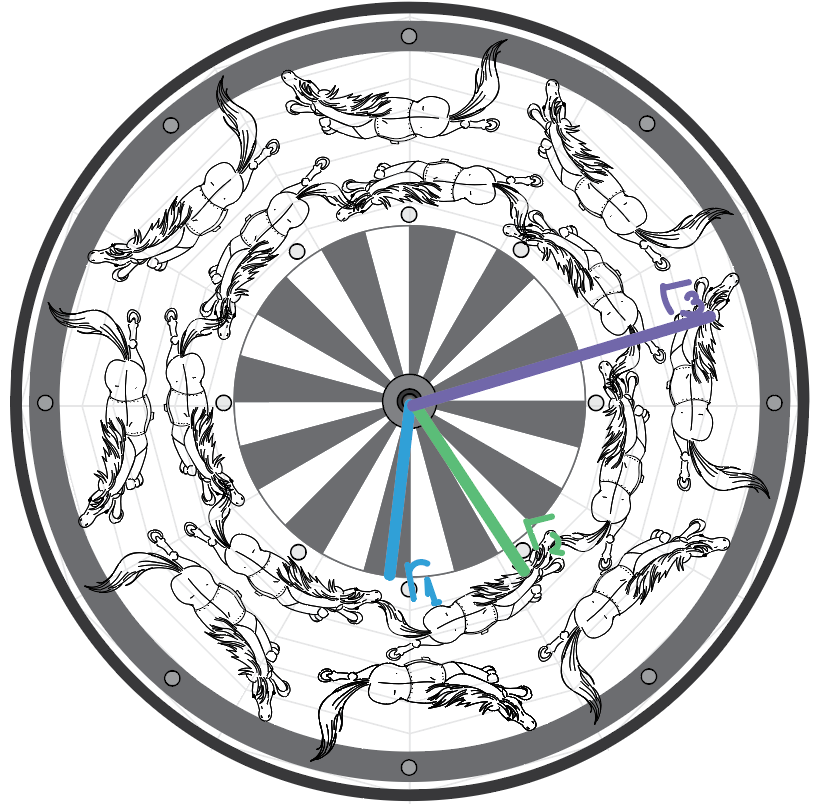
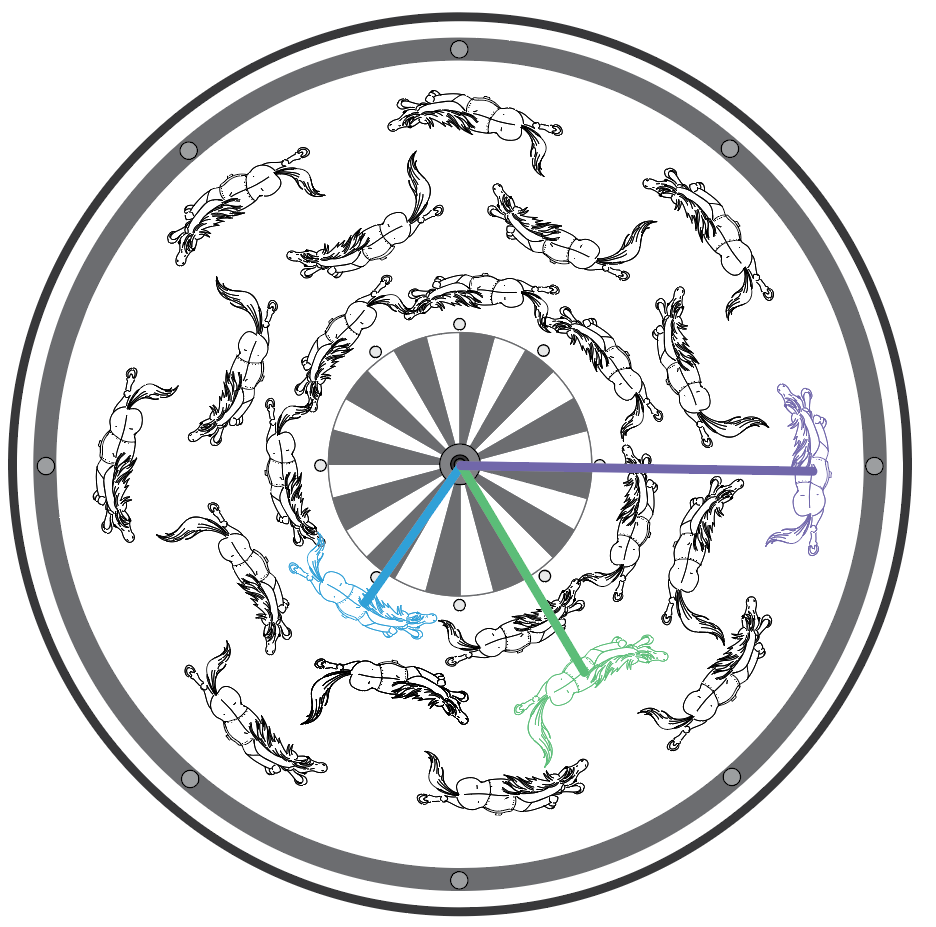
Updated Rotations to reflect Mariya's new colored horses drawing.

diff --git a/content/book/rotation.md b/content/book/rotation.md
@@ -191,13 +191,12 @@ By steadily increasing $\theta$ (or the angle), you can draw a circle with a spe
 # Summary 
 
 Let's tie all of these concepts together to describe your ride on the merry-go-round! 
-On your first ride, you chose a horse on the outer ring of the merry-go-round. 
-Now, imagine a second ride where you chose the yellow horse to your left (closer to the center) instead. 
+On your first ride, you chose a purple horse on the outer ring of the merry-go-round. 
+Now, imagine a second ride where you chose the green horse that is closer to the senter instead. 
 How would the following properties of your trip change: Angular displacement, angular velocity, linear velocity, angular acceleration?
 
-![Here's a picture of this merry-go-round ride! Notice that the different radii for the canopy, inner horse, and outer horse. How will that affect their linear and rotational velocities? <a class="imagecredit" href="https://monochra.com/">image credit Mariya Krastanova</a>](/images/bookpics/merry-go-round.png)
-<!-- TODO: Add final version once Mariya uploads it -->
-
+![Here's a picture of this merry-go-round ride! Notice that the different radii for the blue, green, and purple horses. How will that affect their linear and rotational velocities? <a class="imagecredit" href="https://monochra.com/">image credit Mariya Krastanova</a>
+](/images/bookpics/merry-go-round.png)
 
 <!-- TODO: Maybe hide this in a dropdown box that you have to click to open? -->
 
@@ -208,11 +207,11 @@ For angular velocity and acceleration, every horse on the ride would have the sa
 This is because the entire merry-go-round starts, moves, and stops together at the same rate.
 
 What would change between the two horses is your linear velocity. 
-Switching to a horse closer to the center decreases  $r$ and means you are traveling in a smaller circle. 
+Switching to a horse closer to the center (like the green horse) decreases  $r$ and means you are traveling in a smaller circle. 
 Just like for the ball on a string, when $r$ decreases, your linear velocity also decreases.
 
 What about if your friend chose the horse in front of you? In this case, your initial $\theta$ values would be different but your linear velocity and angular velocities would
-be identical for the entire ride. This is because you have the same $r$ values and same change in $\theta$ over time. 
+be identical for the entire ride. This is because you have the same $r$ values and same change in $\theta$ over time. What would be different if they chose the blue horse instead?
 
 
 Finally, let's think about how the ride changes over time?
